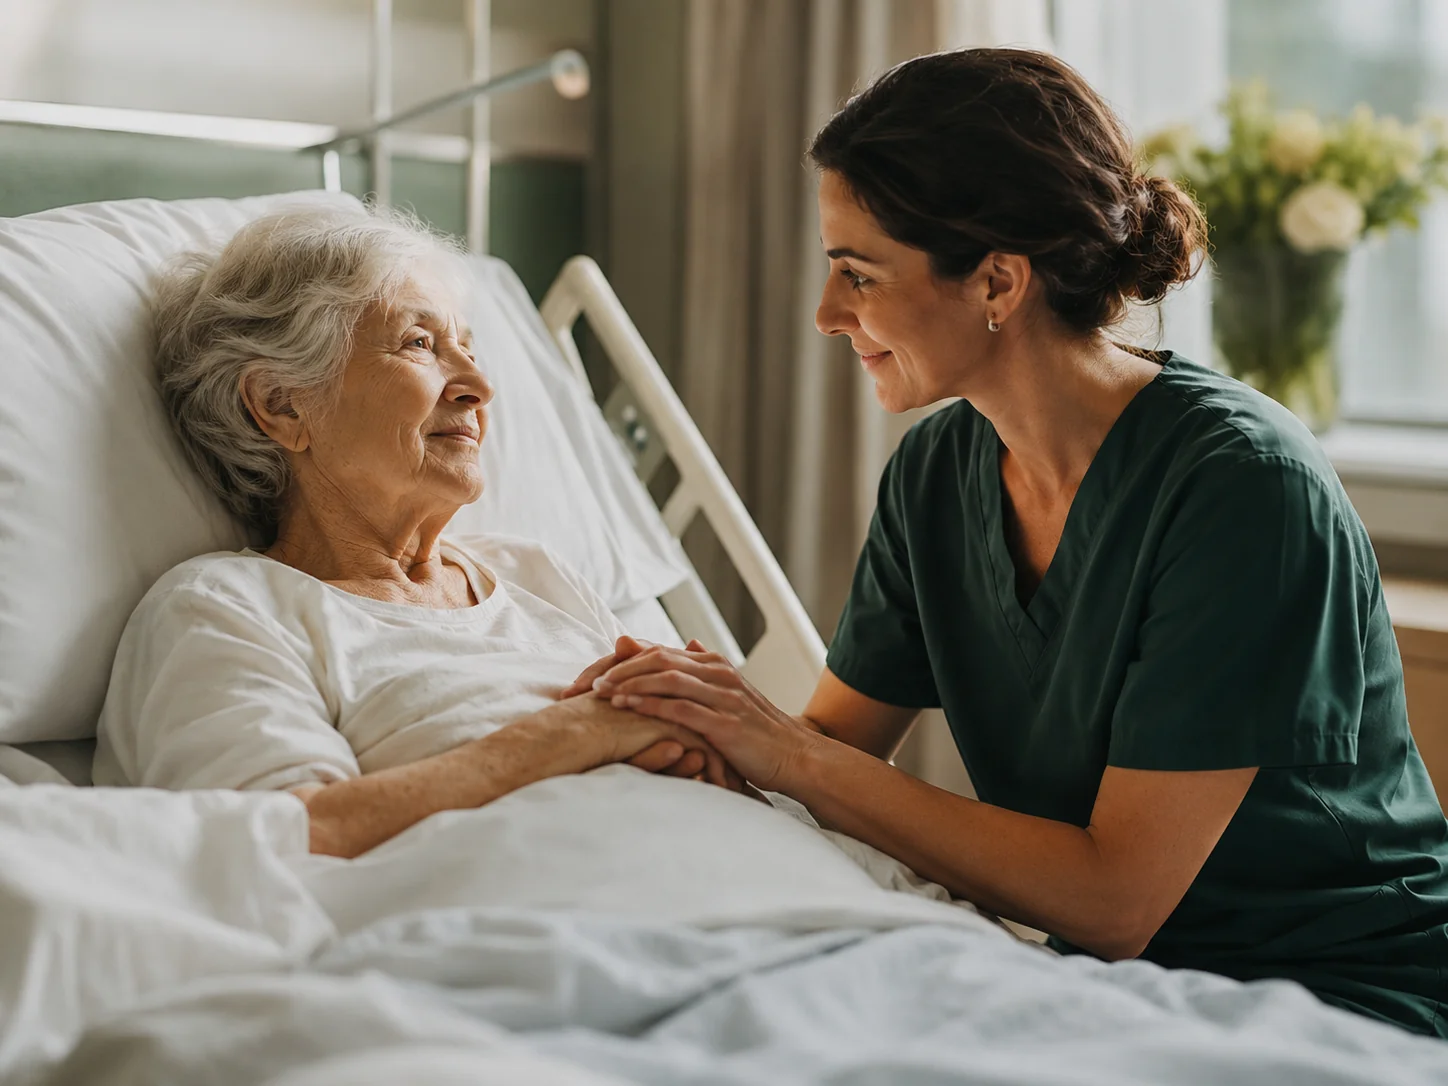
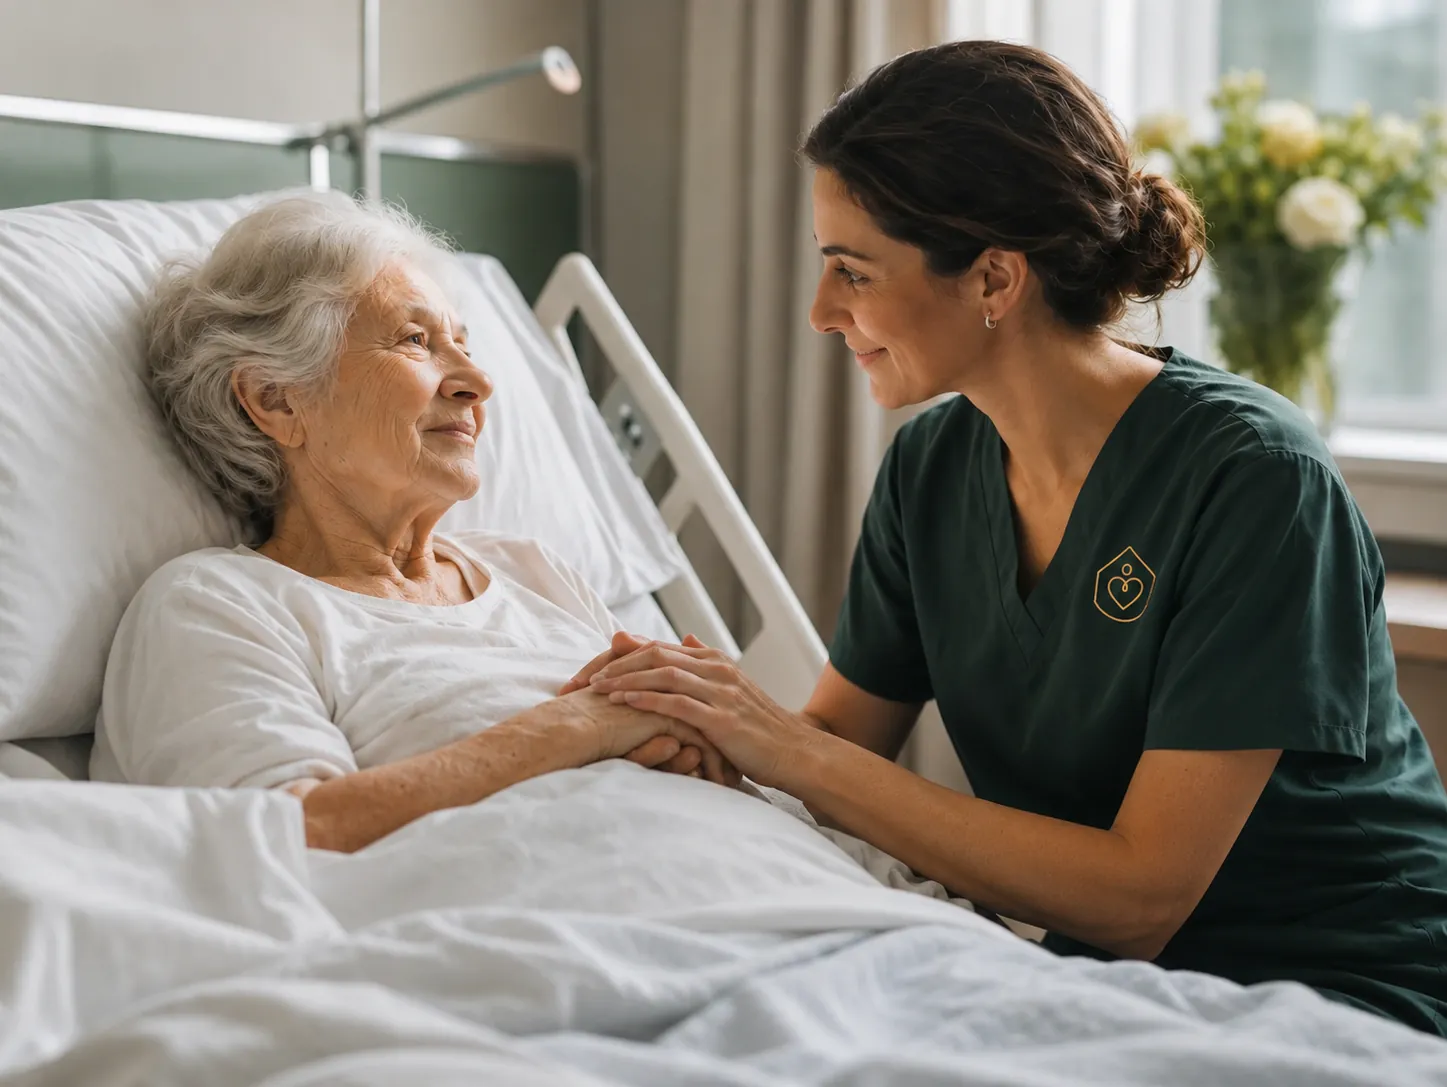
Novy obrazek nemocnice (Pece v nemocnici) jako WebP s ?v=2

diff --git a/app.js b/app.js
@@ -1428,7 +1428,7 @@ function initTheme(){applyTheme('dark');}
 /* mapování id služby → název obrázku (kde se liší) */
 const SVC_IMG={lekar:'doktor',domaci:'domacipece',pomoc:'pomocvdomacnosti',rehab:'Rehabilitace'};
 /* verze obrázku dlaždice — zvýšit při výměně obrázku (obrázky se cachují natrvalo) */
-const SVC_IMG_V={osobni:2,lekar:2,domaci:2,nocni:2};
+const SVC_IMG_V={osobni:2,lekar:2,domaci:2,nocni:2,nemocnice:2};
 /* hlavních 6 služeb na úvodní stránce */
 const MAIN_SERVICES=['osobni','lekar','domaci','nakupy','nocni','nemocnice'];
 function renderHome(){
